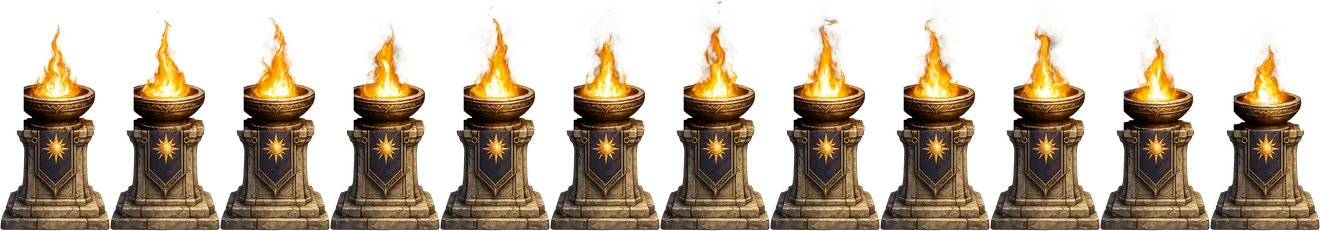
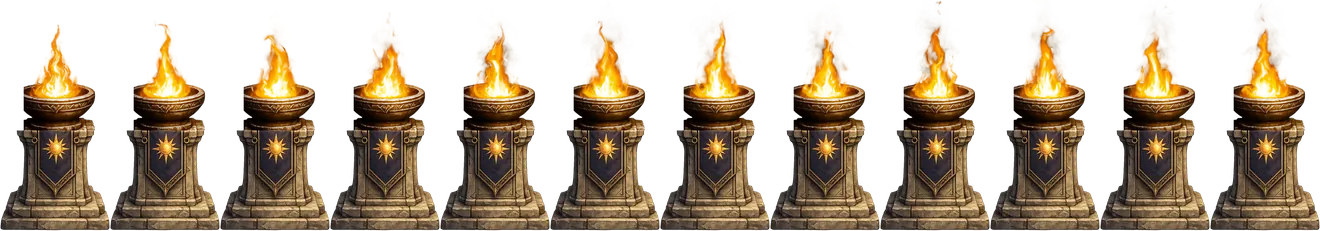
v2.3.741: owner polish — clean PLAY, smaller preview, plain CTA, steady gold flame, +20% in-game character
- PLAY: the solid-color fallback peeked out around the art's
  transparent corners — removed (min-height stays).
- Preview character scaled 0.9 (translate unchanged, boots keep the
  platform).
- CREATE YOUR CHARACTER: pill backdrop removed, plain white text with
  the heavy halo carrying contrast.
- Right flame: the shrink was real — the source clip's fire dies down
  at the tail and the 12-frame loop sampled it, so each cycle shrank
  then snapped.  Strip resampled from the steady first 75% of the
  clip (flame heights now 80-113px natural flicker, no decay ramp).
- In-game character +20% all directions: LOCAL_SCALE 0.3515625 ->
  0.421875, remote players matched, remote weapon-anchor baseline
  0.5 -> 0.6 to track.

https://claude.ai/code/session_0151DZMnMFd5zwh48Ctd1ErU

diff --git a/src/rendering/systems/entityRenderer.js b/src/rendering/systems/entityRenderer.js
@@ -2902,7 +2902,7 @@ export class EntityRenderer {
              players rendered noticeably smaller than yourself. */
           /* v2.3.537: derived per-(pose,dir) scale, shared with the local
              player path via bodyDirScale (silhouette-height normalization). */
-          const sizeMul = bodyDirScale(pose, dir) * 0.3515625;
+          const sizeMul = bodyDirScale(pose, dir) * 0.421875; /* v2.3.741: +20% with the local player */
           spriteBody.scale.x = (mirror ? -1 : 1) * sizeMul;
           spriteBody.scale.y = sizeMul;
           spriteBody.tint = 0xffffff;
@@ -3048,11 +3048,11 @@ export class EntityRenderer {
              spriteBody scale change above (also 0.5).  Keeps the
              weapon anchored to the visual hand position rather than
              flying off into space. */
-          let bodyScale = 0.5;
+          let bodyScale = 0.6; /* v2.3.741: 0.5 -> 0.6, tracking the +20% body bump */
           const isHitNow = other._hitFlash && (now - other._hitFlash) < 250;
           const poseNow = isHitNow ? 'hit' : (isMoving ? 'jog' : 'stand');
-          if (dir === 'east' && poseNow === 'hit') bodyScale = 0.88 * 0.5;
-          else if (dir === 'northeast' && poseNow !== 'hit') bodyScale = 1.03 * 0.5;
+          if (dir === 'east' && poseNow === 'hit') bodyScale = 0.88 * 0.6;
+          else if (dir === 'northeast' && poseNow !== 'hit') bodyScale = 1.03 * 0.6;
           const animFrame = display._animFrame || 0;
           const hand = display._animPose ? getAnchor(display._animPose, dir, animFrame, mirror) : null;
           let wpnX = 0, wpnY = 0;
@@ -3375,8 +3375,11 @@ export class EntityRenderer {
        the player sprite 25% larger everywhere".
        v2.3.166: sprite source bumped 128 -> 256; halved again
        (0.703125 -> 0.3515625) so on-screen size stays identical.
-       Net visible scale vs v2.3.110 baseline: still +25%. */
-    const LOCAL_SCALE = 0.3515625;
+       Net visible scale vs v2.3.110 baseline: still +25%.
+       v2.3.741: +20% (0.3515625 -> 0.421875) per user "make the character
+       20% larger in game for all directions".  Remote players and the
+       remote weapon-anchor baseline bumped by the same factor. */
+    const LOCAL_SCALE = 0.421875;
     /* v2.3.537: per-(pose,dir) scale now comes from the derived
        BODY_DIR_SCALE map (silhouette-height normalization), replacing the
        old hand-tuned bump stack. */

diff --git a/src/ui/BroTown.jsx b/src/ui/BroTown.jsx
@@ -13830,9 +13830,9 @@ export var BroTown = function BroTown(_ref0) {
       /* v2.3.738: white + heavy dark halo — gold vanished into the sunlit
          half of the painted backdrop.  Plus a dark pill backdrop so it
          holds contrast over the brightest sky. */
-      letterSpacing: '.14em', marginTop: 5, textShadow: '0 1px 2px rgba(0,0,0,.95), 0 0 10px rgba(0,0,0,.8)',
-      display: 'inline-block', background: 'rgba(8,6,18,0.62)', padding: '3px 16px', borderRadius: 999,
-      border: '1px solid rgba(245,197,66,0.25)' }
+      /* v2.3.741: pill backdrop removed (owner: too prominent) — plain
+         white text, the heavy halo carries the contrast. */
+      letterSpacing: '.14em', marginTop: 5, textShadow: '0 1px 2px rgba(0,0,0,.95), 0 0 10px rgba(0,0,0,.8), 0 0 18px rgba(0,0,0,.5)' }
   }, "CREATE YOUR CHARACTER"), /*#__PURE__*/React.createElement("img", {
     src: '/ui/welcome/divider2.webp', alt: '',
     style: { width: '76%', maxWidth: 420, height: 15, objectFit: 'contain', margin: '5px auto 0', display: 'block', pointerEvents: 'none' }
@@ -13910,8 +13910,10 @@ export var BroTown = function BroTown(_ref0) {
       touchAction: 'none',
       cursor: 'grab',
       /* v2.3.725: lands the boots on the painted stone platform (~83%
-         of the window height in the cover-fit scene). */
-      transform: 'translateY(-6%)',
+         of the window height in the cover-fit scene).
+         v2.3.741: scale .9 — 10% smaller per owner; translate stays so
+         the boots keep the platform. */
+      transform: 'translateY(-6%) scale(0.9)',
       /* v2.3.717: transparent — the parchment border-image panel behind
          supplies the backdrop now.  It must stay NEAR-WHITE (see the
          wrapper comment): trait sprites carry white extraction residue

diff --git a/src/styles/game.css b/src/styles/game.css
@@ -240,7 +240,9 @@ input{font-family:inherit}
    invisible (suspected in the owner's 'PLAY disappeared' report; the other
    cause is overlays — the bottom sheet and the iOS keyboard both cover it
    while open, by design). */
-.bt-cc-play{background:#5b52ff url('/ui/welcome/play-btn.webp') center/100% 100% no-repeat;border:none;min-height:44px}
+.bt-cc-play{background:url('/ui/welcome/play-btn.webp') center/100% 100% no-repeat;border:none;min-height:44px}
+/* v2.3.741: solid-color fallback removed — the art has transparent corners,
+   so the backing purple peeked out around the painted shape (owner). */
 .bt-cc-play:active{transform:translateY(2px);filter:brightness(1.12)}
 .bt-cc-rand{border:1.5px solid #8a6d1f!important;color:var(--gold)!important}
 .bt-cc-rand:active{background:rgba(245,197,66,.12)!important}
